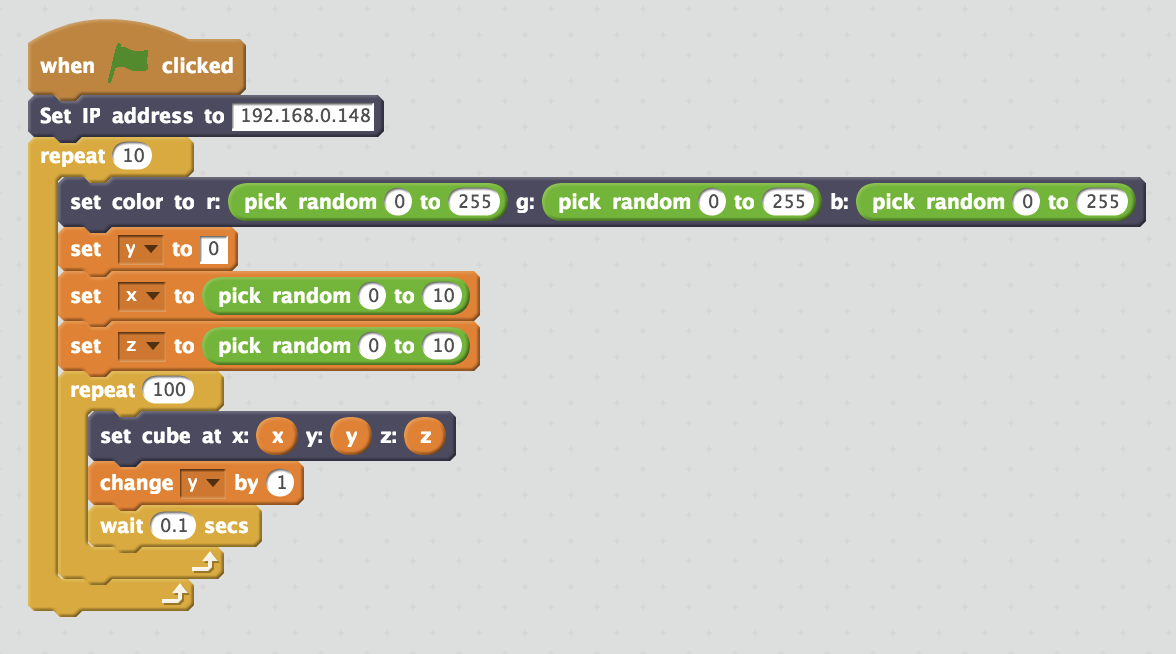
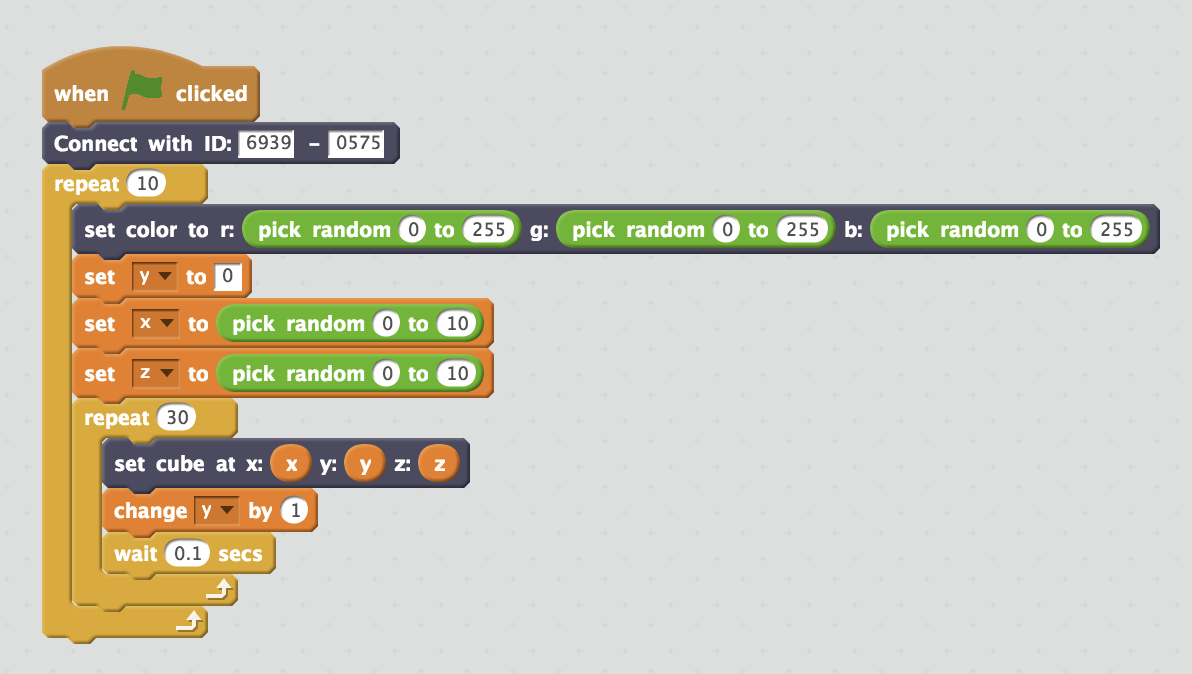
Update readme.

Changed region(s): [[0.0, 0.0306, 0.9796, 0.9786]]

diff --git a/README.md b/README.md
@@ -2,6 +2,8 @@
 
 S2AR(Scratch2ARKit) connects Scratch* (more specifically ScratchX) and ARKit, then enables anyone to program building blocks in Augmented Reality world.
 
+![](images/random_tower.png)
+
 \* Scratch is developed by the Lifelong Kindergarten Group at the MIT Media Lab. See http://scratch.mit.edu
 
 S2AR is available at [App Store](https://itunes.apple.com/jp/app/s2ar/id1316847947?mt=8).
@@ -15,42 +17,39 @@ Demo Movies
 
 ## How to use
 
-1. Prepare PC and iOS device in the same local network.
-2. On iOS device, start S2AR and you will see IP address appeared in the left bottom corner.
+1. On iOS device, start S2AR and you will find ID(connection ID) appeared in the bottom bar.
 
-  ![](images/ip_address.jpeg)
-
-3. On PC, open a browser then connect to http://scratchx.org/.
+2. On PC, open a browser then connect to http://scratchx.org/.
 
   ![](images/scratchx.png)
 
-4. On ScratchX website, click "Open Extension URL", paste https://champierre.github.io/s2ar/extension/s2ar.js in URL field and click "Open".
+3. On ScratchX website, click "Open Extension URL", paste "https://champierre.github.io/s2ar/extension/s2ar.js" in URL field and click "Open".
 
   ![](images/scratchx1.png)
 
-5. Click "I understand, continue" button on Warning dialog.
+4. Click "I understand, continue" button on Warning dialog.
 
   ![](images/scratchx2.png)
 
-6. Special blocks for S2AR are available under "More Blocks" category. Drag "Set IP address to" block to Scripts Area, and input IP address appeared in S2AR app, then click the block.
+5. Special blocks for S2AR are available under "More Blocks" category. Drag "Connect with ID:" block to Scripts Area, and input ID appeared in S2AR app, then click the block.
 
-  ![](images/set_ip_address.png)
+  ![](images/connect.png)
 
-7. Back to S2AR on iOS device, tap "Set origin" in the right bottom corner, find any surface(yellow dots should appear), then tap on it. A small gray pillar should appear. This will be origin point(x:0, y:0, z:0).
+6. Back to S2AR on iOS device, tap "Set origin" in the right bottom corner, find any surface(yellow dots should appear), then tap on it. A small red square should appear there. This will be origin point(x:0, y:0, z:0).
 
   ![](images/origin.png)
 
-8. On ScratchX, drag "set cube at x:1 y: 0 z: 1" block to Scripts Area, then click the block. You will see a black block is set near to the origin point.
+7. On ScratchX, drag "set cube at x:1 y: 0 z: 1" block to Scripts Area, then click the block. You will see a gray block is set near to the origin point.
 
   ![](images/set_cube_at.png)
 
   ![](images/set_cube_s2ar.png)
 
-9. Use "set color to" block to change the block color.
+8. Use "set color to" block to change the block color.
 
   ![](images/set_color.png)
 
-10. Use "reset" to delete all blocks.
+9. Use "reset" to delete all blocks.
 
   ![](images/reset.png)
 
